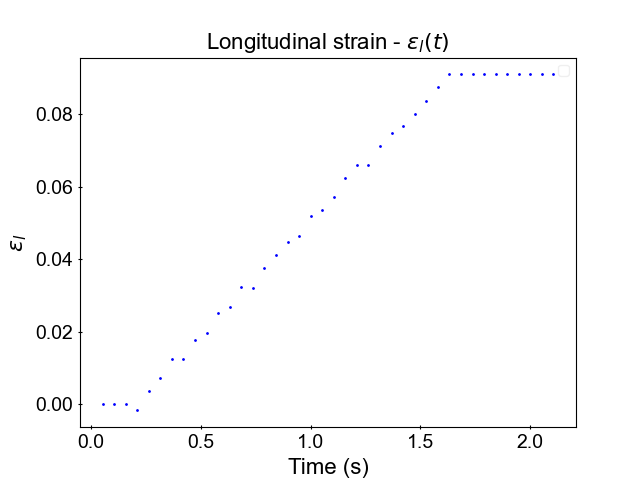
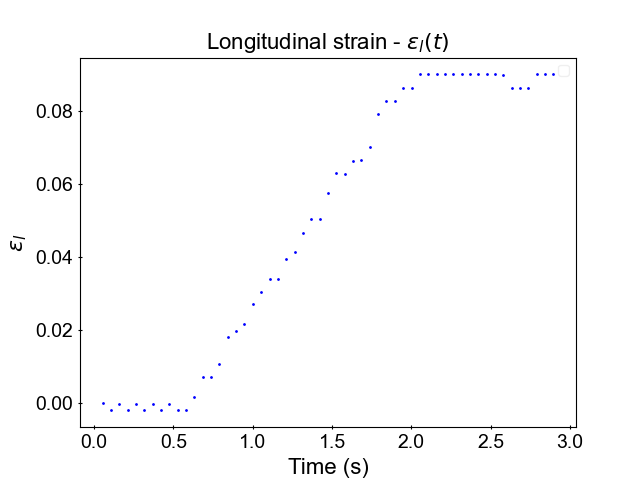
account for time lapses

diff --git a/main.py b/main.py
@@ -64,6 +64,22 @@ class TrackingUI:
         self.frame_selector_btn.grid(row=2, pady=(12,4))
         self.frame_label.grid(row=3, column=0, pady=(0,8))
 
+        # frame interval input
+        self.frame_interval = 0
+        self.time_units = 's'
+        self.is_timelapse_var = tk.IntVar()
+        is_timelapse_check = ttk.Checkbutton(self.root, text="Is this video a timelapse? ", variable=self.is_timelapse_var, onvalue=1, offvalue=0, command=self.handle_checkbuttons)
+        is_timelapse_check.grid(row=4, column=0)
+        self.frame_interval_frame = tk.Frame()
+        time_units_label = ttk.Label(self.frame_interval_frame, text="Units of time: \n(s, min, hr)")
+        time_units_label.grid(row=0, column=0)
+        self.time_units_entry = ttk.Entry(self.frame_interval_frame, width=10)
+        self.time_units_entry.grid(row=0, column=1)
+        frame_interval_label = ttk.Label(self.frame_interval_frame, text="Frame interval: \n(in units spec'd above)")
+        frame_interval_label.grid(row=1, column=0)
+        self.frame_interval_entry = ttk.Entry(self.frame_interval_frame, width=10)
+        self.frame_interval_entry.grid(row=1, column=1)
+
         # radios for selecting operation
         self.operation_intvar = tk.IntVar()
         self.operation_intvar.set(0)
@@ -72,9 +88,9 @@ class TrackingUI:
         operation_tracking_radio.grid(row=0, column=0, padx=4, pady=16)
         operation_necking_radio = ttk.Radiobutton(operation_frame, text="Necking point detection", variable=self.operation_intvar, value=2, command=self.handle_radios, width=25, style='Outline.TButton')
         operation_necking_radio.grid(row=0, column=1, padx=4, pady=16)
-        operation_frame.grid(row=4, column=0)
+        operation_frame.grid(row=6, column=0)
         self.select_msg = ttk.Label(self.root, text="Select from above for more customizable parameters")
-        self.select_msg.grid(row=5, column=0)
+        self.select_msg.grid(row=7, column=0)
 
         # options for marker tracking
         self.tracking_frame = tk.Frame(self.root)
@@ -161,6 +177,12 @@ class TrackingUI:
     def remove_outliers(self):
         OutlierRemoval(self.root, (float(self.conversion_factor_entry.get()), self.conversion_units_entry.get()))
 
+    def handle_checkbuttons(self):
+        if self.is_timelapse_var.get() == 1:
+            self.frame_interval_frame.grid(row=5, column=0)
+        else:
+            self.frame_interval_frame.grid_forget()
+
     def handle_radios(self):
         """blits options for the corresponding radio button selected"""        
         option = self.operation_intvar.get()
@@ -168,11 +190,11 @@ class TrackingUI:
             case 1:
                 self.select_msg.grid_forget()
                 self.necking_frame.grid_forget()
-                self.tracking_frame.grid(row=6, column=0)
+                self.tracking_frame.grid(row=8, column=0)
             case 2:
                 self.select_msg.grid_forget()
                 self.tracking_frame.grid_forget()
-                self.necking_frame.grid(row=6, column=0)
+                self.necking_frame.grid(row=8, column=0)
 
     def on_submit_tracking(self):
         """calls the appropriate functions with user spec'd args when tracking start button clicked"""        
@@ -190,8 +212,18 @@ class TrackingUI:
                 self.frame_start = self.child.frame_start_select
             if self.child.end_selection_flag: # if an end frame sel made,
                 self.frame_end = self.child.frame_end_select   
-
         print(f"frame start: {self.frame_start}, frame end: {self.frame_end}")
+
+        # handle if is timelapse inputs
+        if self.is_timelapse_var.get() == 1:
+            if self.frame_interval_entry.get() == '' or self.time_units == '':
+                msg = "ERROR: User indicated video is a timelapse, but did not specify time interval and/or time units"
+                error_popup(msg)
+            self.frame_interval = float(self.frame_interval_entry.get())
+            self.time_units = self.time_units_entry.get()
+        else:
+            self.frame_interval = 0
+            self.time_units = 's'
 
         match option:
             case 0:
@@ -208,14 +240,32 @@ class TrackingUI:
                 selected_markers, first_frame = tracking.select_markers(cap, bbox_size, self.frame_start) # prompt to select markers
                 print(f"marker locs: {selected_markers}")
                 if not selected_markers.__contains__((-1,-1)): # select_markers returns list of -1 if selections cancelled
-                    tracking.track_markers(selected_markers, first_frame, self.frame_start, self.frame_end, cap, bbox_size, tracker_choice)
+                    tracking.track_markers(
+                        selected_markers,
+                        first_frame,
+                        self.frame_start,
+                        self.frame_end,
+                        cap,
+                        bbox_size,
+                        tracker_choice,
+                        self.frame_interval,
+                        self.time_units
+                    )
             case 2:
                 percent_crop_right = float(self.percent_crop_right_entry.get())
                 percent_crop_left = float(self.percent_crop_left_entry.get())
                 binarize_intensity_thresh = int(self.binarize_intensity_thresh_entry.get())
 
                 print("Beginning Necking Point")
-                tracking.necking_point(cap, self.frame_start, self.frame_end, percent_crop_left, percent_crop_right, binarize_intensity_thresh)
+                tracking.necking_point(
+                    cap,
+                    self.frame_start,
+                    self.frame_end, percent_crop_left,
+                    percent_crop_right,
+                    binarize_intensity_thresh,
+                    self.frame_interval,
+                    self.time_units
+                )
 
     def get_file(self):
         """util function to prompt a file browser to select the video file that will be tracked

diff --git a/analysis.py b/analysis.py
@@ -41,6 +41,16 @@ def rms_displacement(dx, dy):
     rms_displacement = np.sqrt(np.cumsum(dx_sq + dy_sq) / (np.arange(len(dx))+1))
     return rms_displacement
 
+def get_time_labels(df):
+    time_col = df.filter(like='Time').columns[0]
+    time_label = 'Time (s)'
+    if time_col.__contains__('min'):
+        time_label = 'Time (min)'
+    if time_col.__contains__('hr'):
+        time_label = 'Time (hr)'
+
+    return time_col, time_label
+
 def plot_scatter_data(x, y, plot_args, n_datasets, fig=None, ax=None):
     """util function to handle plotting and formatting of the plots
     can accept 1 or multiple independent variable datasets
@@ -158,11 +168,12 @@ def analyze_marker_deltas(user_unit_conversion, df=None, will_save_figures=True)
         msg = "Found more/less than 2 markers.\n\nPlease ensure exactly 2 markers are tracked"
         error_popup(msg)
         return
-
+    
+    time_col, time_label = get_time_labels(df)
     # grab relevant data and put into np array
     m1_df = df[df['Tracker'] == 1]
     m2_df = df[df['Tracker'] == 2]
-    time = df['Time(s)'].unique()
+    time = df[time_col].unique()
     m1_x = m1_df['x (px)'].values * conversion_factor
     m1_y = m1_df['y (px)'].values * conversion_factor
     m2_x = m2_df['x (px)'].values * conversion_factor
@@ -180,7 +191,7 @@ def analyze_marker_deltas(user_unit_conversion, df=None, will_save_figures=True)
 
     plot_args = {
         'title': r'Marker Delta Tracking',
-        'x_label': 'Time (s)',
+        'x_label': time_label,
         'y_label': f'Marker Deltas {conversion_units}',
         'data_label': None,
         'has_legend': False
@@ -216,8 +227,9 @@ def analyze_necking_point(user_unit_conversion, df=None, will_save_figures=True)
     if not isinstance(df, pd.DataFrame):
         df = pd.read_csv("output/Necking_Point_Output.csv") # open csv created/modified from marker tracking process
     print(df.head())
+    time_col, time_label = get_time_labels(df)
 
-    time = df['Time(s)'].values
+    time = df[time_col].values
     necking_pt_x = df['x at necking point (px)'].values * conversion_factor
     necking_pt_len = df['y necking distance (px)'].values * conversion_factor
 
@@ -227,7 +239,7 @@ def analyze_necking_point(user_unit_conversion, df=None, will_save_figures=True)
 
     plot_args = {
         'title': 'Necking Point Horizontal Location',
-        'x_label': 'Time (s)',
+        'x_label': time_label,
         'y_label': f'Horizontal location of necking point {conversion_units}',
         'data_label': None,
         'has_legend': False
@@ -280,12 +292,13 @@ def poissons_ratio(user_unit_conversion):
     # calculate poisson's ratio, radial / longitudinal
     poissons_df = pd.merge(marker_df, necking_df, 'inner', 'time')
     poissons_df['v'] = np.where(poissons_df['long_strain'] != 0, -1 * poissons_df['rad_strain'] / poissons_df['long_strain'], 0)
+    time_col, time_label = get_time_labels(pd.read_csv("output/Necking_Point_Output.csv"))
     print(poissons_df)
     poissons_df.to_csv("output/poissons_ratio")
 
     plot_args = {
         'title': r"Poisson's Ratio - $\mathit{v(t)}$",
-        'x_label': 'Time (s)',
+        'x_label': time_label,
         'y_label': r"Poisson's Ratio $\mathit{v}$",
         'data_label': None,
         'has_legend': False
@@ -304,6 +317,7 @@ def marker_velocity(user_unit_conversion, df=None, will_save_figures=True):
         df = pd.read_csv("output/Tracking_Output.csv") # open csv created/modified from marker tracking process
     print(df.head())
 
+    time_col, time_label = get_time_labels(df)
     n_trackers = df['Tracker'].unique().shape[0] # get number of trackers
     times = []
     tracker_velocities = []
@@ -311,10 +325,10 @@ def marker_velocity(user_unit_conversion, df=None, will_save_figures=True):
     tracker_frequencies = []
 
     # grab relevant values from df
-    vel_df = pd.DataFrame({'time': df['Time(s)'].unique()[:-1]})
+    vel_df = pd.DataFrame({time_col: df[time_col].unique()[:-1]})
     for tracker in range(n_trackers):
         cur_df = df[df['Tracker'] == tracker+1]
-        time = cur_df['Time(s)'].values
+        time = cur_df[time_col].values
         x = cur_df['x (px)'].values * conversion_factor
         y = cur_df['y (px)'].values * conversion_factor
 
@@ -347,15 +361,15 @@ def marker_velocity(user_unit_conversion, df=None, will_save_figures=True):
     # plot
     plot_args = {
         'title': r'Cell Velocity',
-        'x_label': 'Time (s)',
+        'x_label': time_label,
         'y_label': f'Magnitude of Cell Velocity {conversion_units}',
         'data_label': [f"Tracker {i+1}" for i in range(n_trackers)],
         'has_legend': True,
     }
-
+    print(plot_args['data_label'])
     if will_save_figures:
         # plot marker velocity
-        vel_fig, vel_ax = plot_scatter_data(times[0], tracker_velocities, plot_args, n_datasets=2)
+        vel_fig, vel_ax = plot_scatter_data(times[0], tracker_velocities, plot_args, n_trackers)
         vel_fig.savefig("figures/marker_velocity.png")
 
         # plot bar graph of average cell velocities in time range
@@ -383,9 +397,10 @@ def marker_distance(user_unit_conversion):
     df = pd.read_csv("output/Tracking_Output.csv") # open csv created/modified from marker tracking process
     print(df.head())
     
+    time_col, time_label = get_time_labels(df)
     n_trackers = df['Tracker'].unique().shape[0] # get number of trackers
     rms_disps = []
-    time = df['Time(s)'].unique()
+    time = df[time_col].unique()
     for tracker in range(n_trackers):
         cur_df = df[df['Tracker'] == tracker+1]
         x = cur_df['x (px)'].values * conversion_factor
@@ -395,7 +410,7 @@ def marker_distance(user_unit_conversion):
 
     plot_args = {
         'title': 'Cell RMS Displacement',
-        'x_label': 'Time (s)',
+        'x_label': time_label,
         'y_label': f'RMS {conversion_units}',
         'data_label': [f"Tracker {i+1}" for i in range(n_trackers)],
         'has_legend': True

diff --git a/tracking.py b/tracking.py
@@ -101,7 +101,7 @@ def select_markers(cap, bbox_size, frame_start):
     return mouse_params['marker_positions'], first_frame
 
 
-def track_markers(marker_positions, first_frame, frame_start, frame_end, cap, bbox_size, tracker_choice):
+def track_markers(marker_positions, first_frame, frame_start, frame_end, cap, bbox_size, tracker_choice, frame_interval=0, time_units='s'):
     """main tracking loop of markers selected using marker selections from select_markers()
     saves distances of each mark each frame update to 'output/Tracking_Output.csv'
 
@@ -131,7 +131,7 @@ def track_markers(marker_positions, first_frame, frame_start, frame_end, cap, bb
         trackers[i].init(scaled_first_frame, bbox)
 
     # init tracking data dict
-    tracker_data = {'Frame': [], 'Time(s)': [], 'Tracker': [], 'x (px)': [], 'y (px)': []}
+    tracker_data = {'Frame': [], f'Time({time_units})': [], 'Tracker': [], 'x (px)': [], 'y (px)': []}
     frame_num = 0
 
     # tracking loop
@@ -152,8 +152,11 @@ def track_markers(marker_positions, first_frame, frame_start, frame_end, cap, bb
                 marker_center = (x_bbox + w_bbox // 2, y_bbox + h_bbox // 2)  # get center of bbox
 
                 # record tracker locations using original resolution
+                if frame_interval == 0:
+                    tracker_data[f'Time({time_units})'].append(np.float32(frame_num / cap.get(5)))
+                else:
+                    tracker_data[f'Time({time_units})'].append(np.float16(frame_num * frame_interval))
                 tracker_data['Frame'].append(frame_num)
-                tracker_data['Time(s)'].append(np.float32(frame_num / cap.get(5)))
                 tracker_data['Tracker'].append(i + 1)
                 tracker_data['x (px)'].append(int((marker_center[0] / scale_factor)))  # scale back to the original frame resolution
                 tracker_data['y (px)'].append(int((marker_center[1] / scale_factor)))
@@ -171,7 +174,7 @@ def track_markers(marker_positions, first_frame, frame_start, frame_end, cap, bb
     cv2.destroyAllWindows()
 
 
-def necking_point(cap, frame_start, frame_end, percent_crop_left=0., percent_crop_right=0., binarize_intensity_thresh=120, x_interval=50):
+def necking_point(cap, frame_start, frame_end, percent_crop_left=0., percent_crop_right=0., binarize_intensity_thresh=120, frame_interval=0, time_units='s'):
     """necking point detection loop
     necking point defined as the most shortest vertical line between two horizontal edges
     frames are preprocessed and then edges are detected, top and bottom most edges are singled out
@@ -186,8 +189,9 @@ def necking_point(cap, frame_start, frame_end, percent_crop_left=0., percent_cro
         binarize_intensity_thresh (int, optional): threshold pixel intensity value for frame binarization. Defaults to 120.
         x_interval (int, optional): interval of horizontal pixels to draw vertical blue lines for visualization purposes. Defaults to 50.
     """    
+    x_interval = 50 # interval for how many blue line visuals to display
     frame_num = 0
-    dist_data = {'Frame': [], 'Time(s)': [], 'x at necking point (px)': [], 'y necking distance (px)': []}
+    dist_data = {'Frame': [], f'Time({time_units})': [], 'x at necking point (px)': [], 'y necking distance (px)': []}
     percent_crop_left *= 0.01
     percent_crop_right *= 0.01
 
@@ -251,8 +255,11 @@ def necking_point(cap, frame_start, frame_end, percent_crop_left=0., percent_cro
         necking_pt_ind = int(np.median(necking_pt_indices))
 
         # record and save data using original resolution
+        if frame_interval == 0:
+            dist_data[f'Time({time_units})'].append(np.float32(frame_num / cap.get(5)))
+        else:
+            dist_data[f'Time({time_units})'].append(np.float16(frame_num * frame_interval))
         dist_data['Frame'].append(frame_num)
-        dist_data['Time(s)'].append(np.float32(frame_num / cap.get(5)))
         dist_data['x at necking point (px)'].append(int((x_samples[necking_pt_ind] / scale_factor)))
         dist_data['y necking distance (px)'].append(necking_distance)
 

diff --git a/CHANGELOG.md b/CHANGELOG.md
@@ -13,12 +13,21 @@ Hydrogel
 Multi purpose
 - format plots in outlier removal
 - what to show for outlier removal of marker tracker since there are x, y, points of 2 markers 
-- differentiate between cell tracking and marker tracking
+- account for timelapses (framerate does not directly correlate to time)
+    - add to ui checkbox for if is timelapse
+    - if yes, prompt for input of time units and frame interval
+    - default these to '0' and 's'
+    - in tracking routines, when recording time, if frame interval 0:
+        - time still just frame_num / fps
+    - else:
+        - time is frame_num * frame_interval
+    - time column in df should reflect time units (f string in column header)
+    - adjust analysis functions to get time values from time column by looking for column headers that contain 'Time' instead of an exact match of 'Time(s)'
+    - grab time units for plots from this column header
+    - adjust all plot_args definitions so the x label contains these units
+    - add err msg for if is timelapse box checked and no inputs entered
 
 Cell Mechanics
-- bar graph for cells
-- refactor plotting code st if is_multiple_datasets is false then just put the datasets into a list and remove the first if code that plots single dataset
-- cell distance adapt for multiple trackers
 - cell spread area over time
 
 
@@ -31,6 +40,16 @@ Cell Mechanics
 - refactored all functions that call these functions appropriately
 - added saved dfs for intermediate calculations of cell velocity, cell rms displacement and poissons ratio
 - adapted cell displacement to work for multiple trackers
+- account for timelapses (framerate does not directly correlate to time)
+    - add to ui checkbox for if is timelapse
+    - if yes, prompt for input of time units and frame interval
+        - if no, stay default (s)
+    - df time column will correspond to this user selection
+    - time column in df reflects time units (f string in column header)
+    - adjusted analysis functions to get time values from time column by looking for column headers that contain 'Time' instead of an exact match of 'Time(s)'
+    - grab time units for plots from this column header
+    - adjust all plot_args definitions so the x label contains these units
+    - add err msg for if is timelapse box checked and no inputs entered
 
 2/23
 - adapted cell velocity to work with multiple trackers
